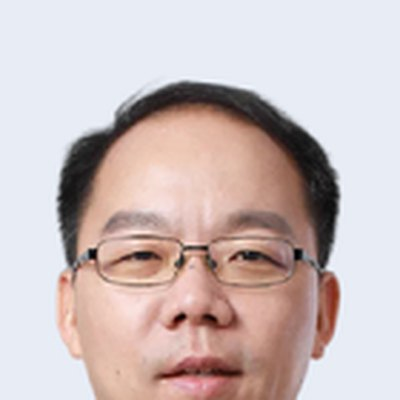
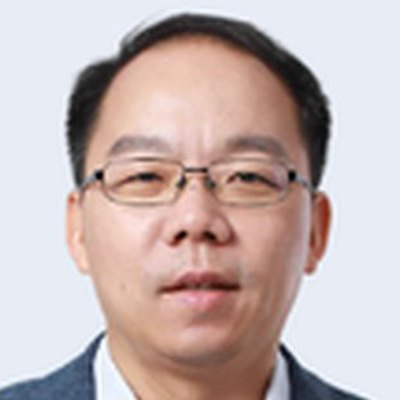
Reframe Jieping Ye and take Hongtu Zhu's Gillings photograph
Ye's face sat low in the circle. Measuring the wide crop put his hair line at
y 88, eyes at 205 and chin at 330 of 400, so the old window cut the forehead
and pushed the chin toward the bottom edge. Recropped to put his eyes at 42
percent of frame height, which is where they fall on the other portraits, with
the full head inside the circle.

Zhu now comes from the Gillings School profile rather than the STOR faculty
listing. It is a 2023 photograph, better lit and better framed than the one it
replaces, cropped to sit at the same head scale as its neighbours.

Sixteen files, 341 KB.

Claude-Session: https://claude.ai/code/session_01BLubvrHYUMPbQ6BdkeZjr7

diff --git a/people/README.md b/people/README.md
@@ -35,7 +35,7 @@ than face-recognition is what establishes identity.
 | `tianyu-shi.jpg` | `tianyushi.org`, URL supplied by the web chair |
 | `fan-zhou.jpg` | Supplied by the web chair at full resolution |
 | `haolun-wu.jpg` | His own site, `haolun-wu.github.io` |
-| `hongtu-zhu.jpg` | UNC STOR faculty page |
+| `hongtu-zhu.jpg` | UNC Gillings School of Global Public Health profile |
 | `sheila-mcilraith.jpg` | Vector Institute team page |
 | `jieping-ye.jpg` | Supplied by the web chair, background already removed |
 | `mengdi-wang.jpg` | Princeton Engineering faculty page |
